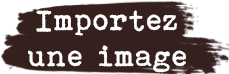
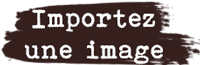
bouton profil import photo

diff --git a/web/profil/style.css b/web/profil/style.css
@@ -23,3 +23,24 @@ h2 {
 p{
 	text-align: left;
 }
+
+#photo{
+	background-image:url("img/importerimage.png");
+    background-repeat:no-repeat;
+    background-position: center;
+    /*background-size: contain ;*/
+    background-color:transparent;
+    outline:none;
+    border:none;
+    width: 200px;
+    height: 65px; /* longueur à spécifier */
+    cursor: pointer; 
+	position: relative;
+	overflow: hidden;
+}
+#photo2 input{
+	filter: alpha(opacity=0);
+   opacity: 0;
+   position: absolute;
+   right: 0;
+}

diff --git a/web/profil/profil.php b/web/profil/profil.php
@@ -64,8 +64,11 @@ $imgEtape = $imagEtape . ".png" ;
      
 	 
 	 <form method="post" action="upload.php" enctype="multipart/form-data" onsubmit="return verifFile(this)">
-     <label for="avatar">Changer sa photo de profil (JPG, PNG ou GIF | max. 2 MO) :</label><br />
-     <input type="file" name="avatar" id="avatar" /><br />
+     <p>Changez votre photo de profil (JPG, PNG ou GIF | max. 2 MO) :</p>
+	 <label for="avatar"><div id="photo"></div></label><br />
+     <div id="photo2">
+		<input type="file" value="" name="avatar" id="avatar" /><br />
+	 </div>
 	 <input type="submit" class="mmmvalider" name="valider" id="valider" value="">
 	 </form>
 	  
